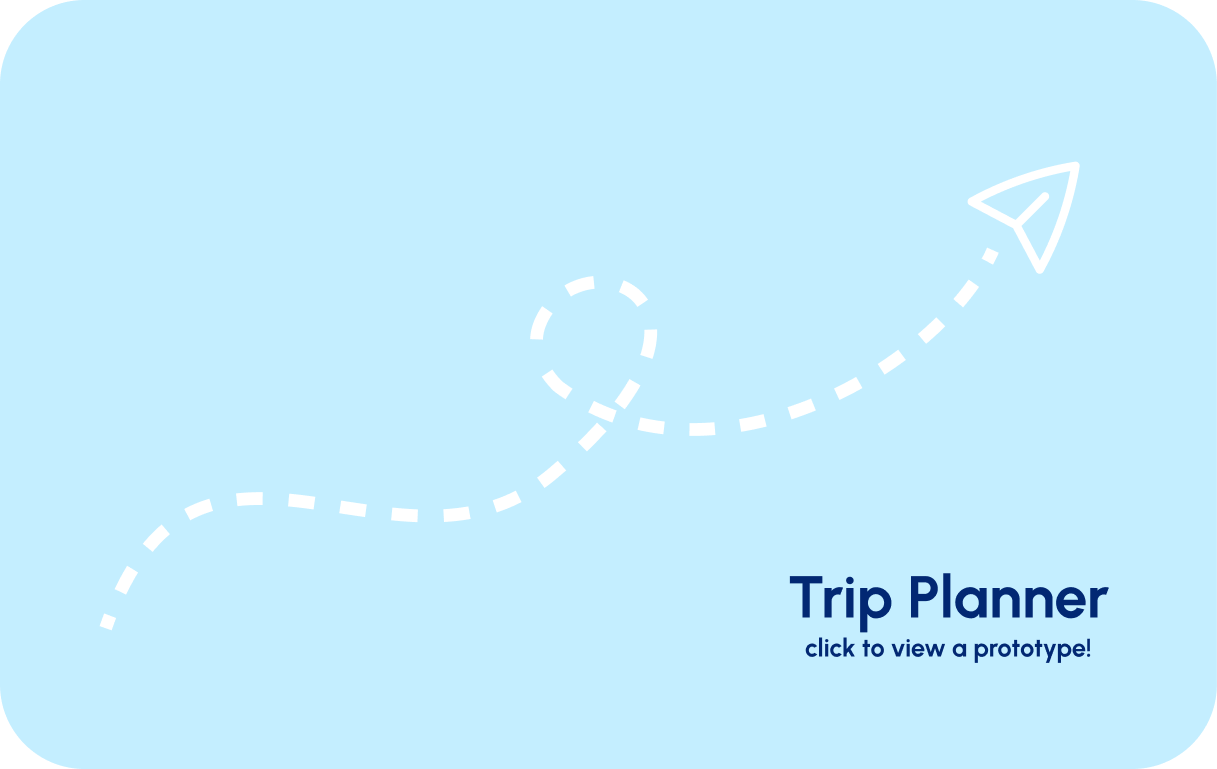
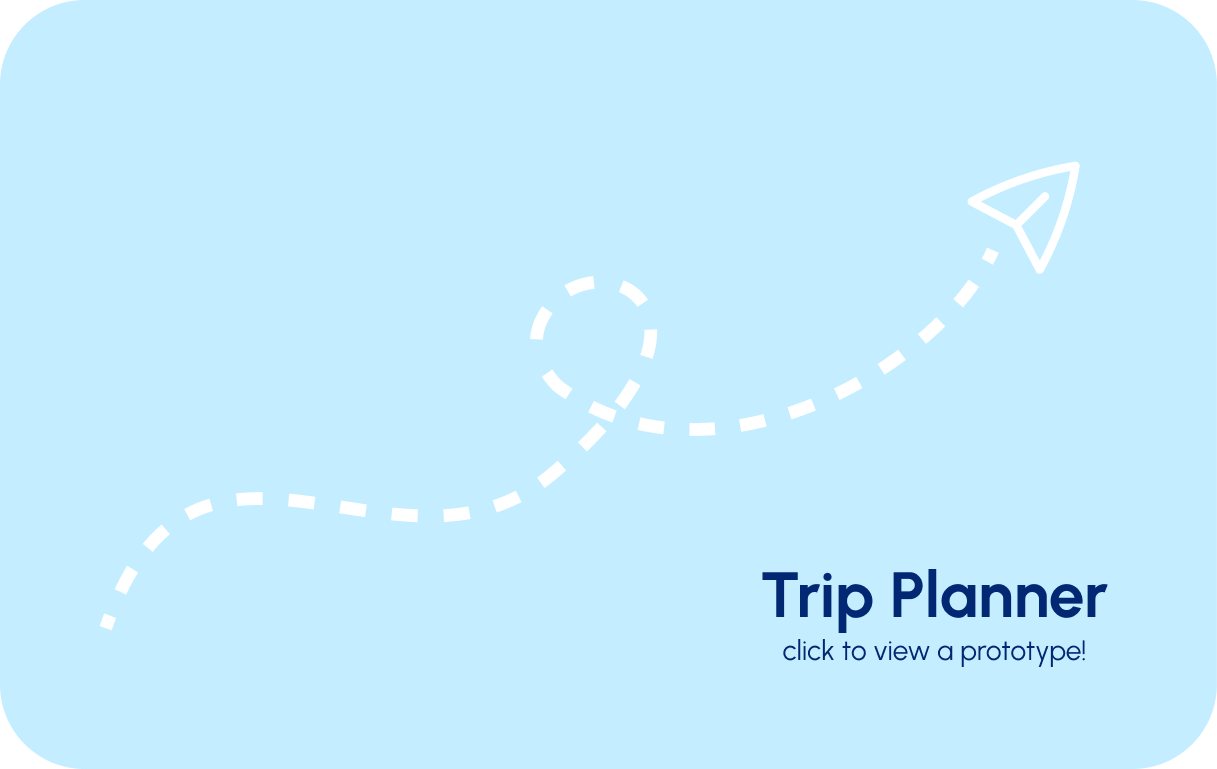
resized final trip planner

Changed region(s): [[0.6245, 0.7178, 0.9055, 0.8739]]

diff --git a/src/pages/Projects.css b/src/pages/Projects.css
@@ -2,7 +2,7 @@
     display: flex;
     flex-direction: column;
     align-items: center;
-    height: 100vw;
+    height: 100vh;
 }
 
 #dmlogin {
@@ -17,11 +17,12 @@
 }
 
 #tplanner {
-    width: 400px;
+    width: 430px;
     height: auto;
-    margin-top: 70px;
-    margin-bottom: 70px;
+    margin-top: 64px;
+    margin-bottom: 64px;
 }
+
 #tplanner:hover {
     cursor: pointer;
 }
